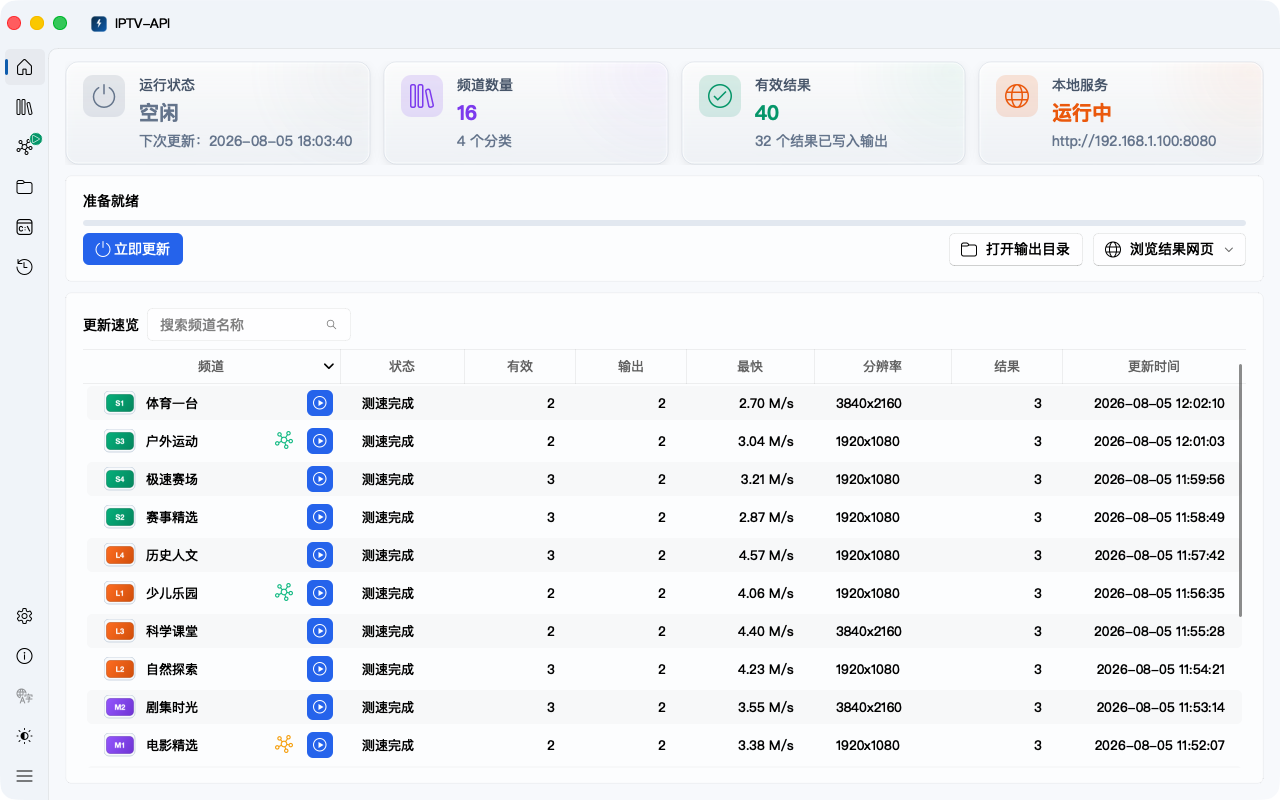
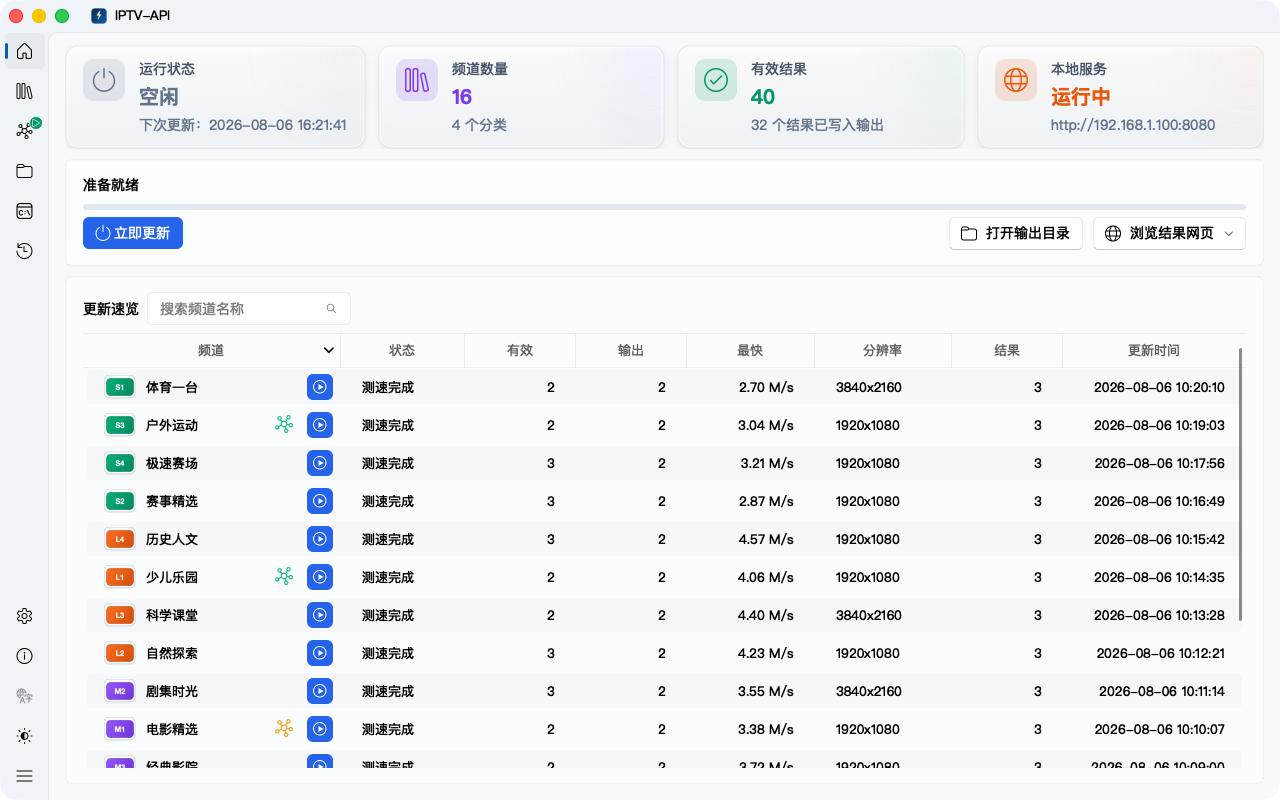
fix: prevent macOS window frame flash during navigation

diff --git a/desktop_ui/main_window.py b/desktop_ui/main_window.py
@@ -4,7 +4,7 @@ import sys
 import threading
 
 import pytz
-from PySide6.QtCore import QRect, QSettings, QTimer, QUrl, Signal, Qt
+from PySide6.QtCore import QSettings, QTimer, QUrl, Signal, Qt
 from PySide6.QtGui import QAction, QColor, QDesktopServices, QFontMetrics, QGuiApplication, QIcon, QPainter
 from PySide6.QtWidgets import QApplication, QCheckBox, QDialog, QDialogButtonBox, QLabel, QMenu, QMessageBox, QSystemTrayIcon, QVBoxLayout, QWidget
 from qfluentwidgets import FluentIcon, FluentWindow, InfoBar, InfoBarPosition, NavigationItemPosition, Theme, isDarkTheme, setTheme
@@ -20,7 +20,7 @@ from desktop_ui.pages.sources import SourcesPage
 from desktop_ui.pages.tasks import TasksPage
 from desktop_ui.models import ChannelLogoLoader
 from desktop_ui.widgets import NavigationStatusIndicator
-from desktop_ui.platform_integration import set_macos_activation_policy
+from desktop_ui.platform_integration import set_macos_activation_policy, suspend_macos_window_flush
 import utils.constants as constants
 from utils.config import config, resource_path
 from utils.i18n import get_language, set_language, t
@@ -29,6 +29,8 @@ from utils.tools import get_public_url, get_version_info
 
 
 class MainWindow(FluentWindow):
+    MACOS_TITLE_BAR_HEIGHT = 32
+
     rtmp_install_finished = Signal(dict)
     rtmp_install_output = Signal(str)
 
@@ -55,6 +57,17 @@ class MainWindow(FluentWindow):
             self.titleBar.minBtn.hide()
             self.titleBar.maxBtn.hide()
             self.titleBar.closeBtn.hide()
+            self.titleBar.setFixedHeight(self.MACOS_TITLE_BAR_HEIGHT)
+            self.widgetLayout.setContentsMargins(
+                0, self.MACOS_TITLE_BAR_HEIGHT, 0, 0
+            )
+            margins = self.titleBar.hBoxLayout.contentsMargins()
+            self.titleBar.hBoxLayout.setContentsMargins(
+                margins.left(),
+                margins.top(),
+                margins.right(),
+                self.MACOS_TITLE_BAR_HEIGHT - 32,
+            )
         self.navigationInterface.setExpandWidth(220)
         self.navigationInterface.setMinimumExpandWidth(840)
         self.channel_logo_loader = ChannelLogoLoader(self)
@@ -108,7 +121,8 @@ class MainWindow(FluentWindow):
             position=NavigationItemPosition.BOTTOM,
         )
         panel = self.navigationInterface.panel
-        panel.vBoxLayout.setContentsMargins(0, 48, 0, 5)
+        navigation_top = self.MACOS_TITLE_BAR_HEIGHT if sys.platform == "darwin" else 48
+        panel.vBoxLayout.setContentsMargins(0, navigation_top, 0, 5)
         panel.topLayout.removeWidget(panel.menuButton)
         panel.bottomLayout.addWidget(panel.menuButton, 0, Qt.AlignmentFlag.AlignBottom)
         self._update_language_item()
@@ -218,22 +232,32 @@ class MainWindow(FluentWindow):
         else:
             QApplication.instance().setQuitOnLastWindowClosed(True)
 
-    def systemTitleBarRect(self, size):
+    def _updateSystemButtonRect(self):
         if sys.platform == "darwin":
-            return QRect(0, 8, 75, size.height())
-        return super().systemTitleBarRect(size)
+            # AppKit already keeps the native traffic lights stable. Moving
+            # them manually makes page layout events expose two positions.
+            return
+        updater = getattr(super(), "_updateSystemButtonRect", None)
+        if updater is not None:
+            return updater()
 
     def resizeEvent(self, event):
-        super().resizeEvent(event)
         if sys.platform == "darwin":
-            self.titleBar.move(90, 0)
-            self.titleBar.resize(max(0, self.width() - 90), self.titleBar.height())
+            # FluentWindow first lays the title bar out at x=46. Setting the
+            # final macOS geometry directly avoids exposing that intermediate
+            # frame when a page activation produces a same-size resize event.
+            self.titleBar.setGeometry(90, 0, max(0, self.width() - 90), self.titleBar.height())
+        else:
+            super().resizeEvent(event)
         if self.isVisible():
             self._window_geometry_timer.start()
 
     def switchTo(self, interface):
-        """Switch pages without forcing a repaint of the native title bar."""
-        super().switchTo(interface)
+        """Publish page layout and native title-bar changes in one frame."""
+        with suspend_macos_window_flush(self):
+            super().switchTo(interface)
+            if sys.platform == "darwin":
+                QApplication.sendPostedEvents()
 
     def moveEvent(self, event):
         super().moveEvent(event)

diff --git a/tests/test_platform_integration.py b/tests/test_platform_integration.py
@@ -1,0 +1,79 @@
+import sys
+import types
+import unittest
+from unittest.mock import patch
+
+from desktop_ui.platform_integration import suspend_macos_window_flush
+
+
+class MacOSWindowFlushTests(unittest.TestCase):
+    def test_non_macos_context_does_not_access_native_window(self):
+        class Window:
+            def winId(self):
+                raise AssertionError("winId should not be accessed")
+
+        with patch.object(sys, "platform", "linux"):
+            with suspend_macos_window_flush(Window()):
+                pass
+
+    def test_macos_context_flushes_once_after_layout_changes(self):
+        calls = []
+
+        class NativeWindow:
+            def disableFlushWindow(self):
+                calls.append("disable")
+
+            def enableFlushWindow(self):
+                calls.append("enable")
+
+            def flushWindow(self):
+                calls.append("flush")
+
+        native_window = NativeWindow()
+        native_view = types.SimpleNamespace(window=lambda: native_window)
+        objc = types.SimpleNamespace(
+            objc_object=lambda c_void_p: native_view,
+        )
+        window = types.SimpleNamespace(winId=lambda: 123)
+
+        with patch.object(sys, "platform", "darwin"), patch.dict(
+            sys.modules, {"objc": objc}
+        ):
+            with suspend_macos_window_flush(window):
+                calls.append("layout")
+
+        self.assertEqual(calls, ["disable", "layout", "enable", "flush"])
+
+    def test_macos_context_restores_flushing_after_error(self):
+        calls = []
+
+        class NativeWindow:
+            def disableFlushWindow(self):
+                calls.append("disable")
+
+            def enableFlushWindow(self):
+                calls.append("enable")
+
+            def flushWindow(self):
+                calls.append("flush")
+
+        native_window = NativeWindow()
+        objc = types.SimpleNamespace(
+            objc_object=lambda c_void_p: types.SimpleNamespace(
+                window=lambda: native_window
+            ),
+        )
+        window = types.SimpleNamespace(winId=lambda: 123)
+
+        with patch.object(sys, "platform", "darwin"), patch.dict(
+            sys.modules, {"objc": objc}
+        ):
+            with self.assertRaisesRegex(RuntimeError, "layout failed"):
+                with suspend_macos_window_flush(window):
+                    raise RuntimeError("layout failed")
+
+        self.assertEqual(calls, ["disable", "enable", "flush"])
+
+
+if __name__ == "__main__":
+    unittest.main()

diff --git a/desktop_ui/platform_integration.py b/desktop_ui/platform_integration.py
@@ -1,5 +1,28 @@
 import ctypes
 import sys
+from contextlib import contextmanager
+
+
+@contextmanager
+def suspend_macos_window_flush(window):
+    """Publish a group of Qt layout changes as one macOS window frame."""
+    if sys.platform != "darwin":
+        yield
+        return
+    try:
+        import objc
+
+        view = objc.objc_object(c_void_p=int(window.winId()))
+        native_window = view.window()
+        native_window.disableFlushWindow()
+    except (AttributeError, ImportError, OSError, TypeError):
+        yield
+        return
+    try:
+        yield
+    finally:
+        native_window.enableFlushWindow()
+        native_window.flushWindow()
 
 
 def set_macos_activation_policy(accessory: bool):
